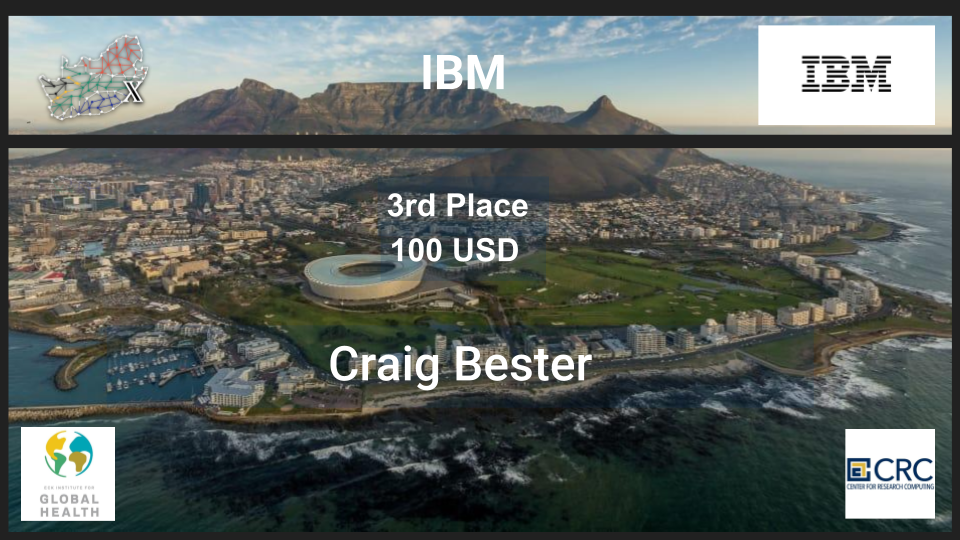
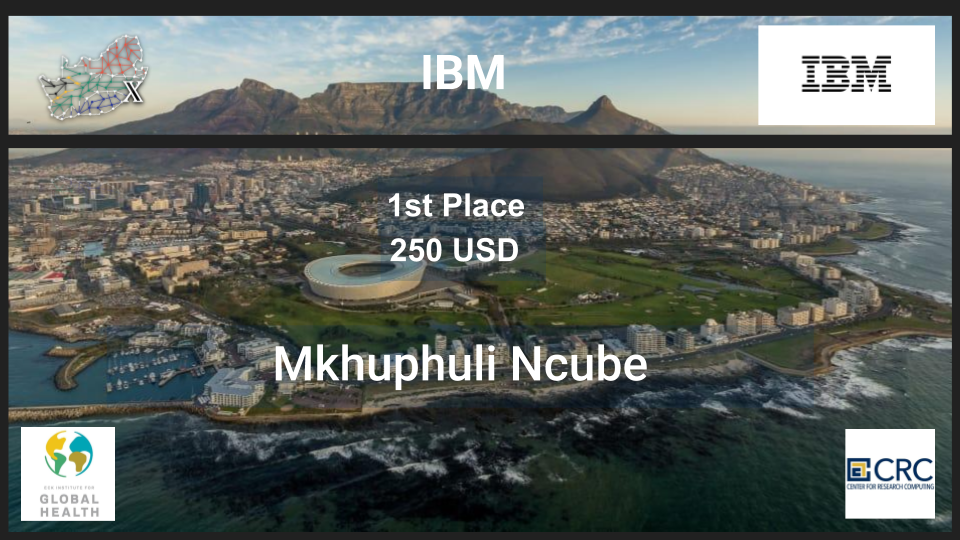
Fixed IBM hackathon prize winner slide order, added slide container padding and fixed section titles

Changed region(s): [[0.2812, 0.6222, 0.6875, 0.7407], [0.4062, 0.3556, 0.5625, 0.4148], [0.4062, 0.4444, 0.4375, 0.5037]]

diff --git a/index.html b/index.html
@@ -174,9 +174,12 @@
 
 <section id="prize_winners" class="section prize_winners">
 	<div class="container prize_winners">
-			<h1 style="text-align:center">IndabaX 2019 Prize Winners</h1>
+      <div class="row">
+        <div class="col-md-12">
 
-				<h3 style="text-align:center">Poster Prizes</h3>
+			<h2 class="section-title">IndabaX 2019 Prize Winners</h2>
+
+				<h2 style="text-align:center">Poster Prize Winners</h2>
 				<div class="slideshow-container">
 					
 					  <div class="mySlides1">
@@ -200,7 +203,7 @@
 				  <a class="next" onclick="plusSlides(1, 0)">&#10095;</a>
 				</div>
 
-				<h3 style="text-align:center">Hackathon Prizes</h3>
+				<h2 style="text-align:center">Hackathon Prize Winners</h2>
 				<div class="slideshow-container">
 					
 				  <div class="mySlides2">
@@ -245,6 +248,8 @@
 				  <a class="prev" onclick="plusSlides(-1, 1)">&#10094;</a>
 				  <a class="next" onclick="plusSlides(1, 1)">&#10095;</a>
 				</div>
+        </div>
+      </div>
 	</div>
 </section>
 

diff --git a/assets/css/main.css b/assets/css/main.css
@@ -1180,6 +1180,8 @@ img {vertical-align: middle;}
   max-width: 1000px;
   position: relative;
   margin: auto;
+  padding-top: 20px;
+  padding-bottom: 20px;
 }
 
 /* Next & previous buttons */
